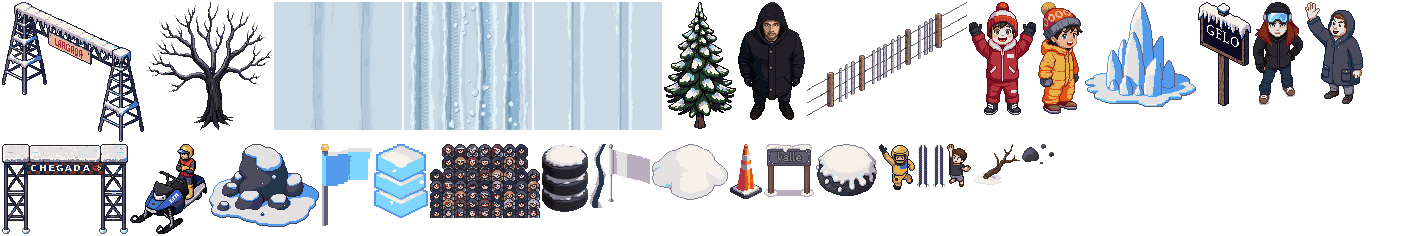
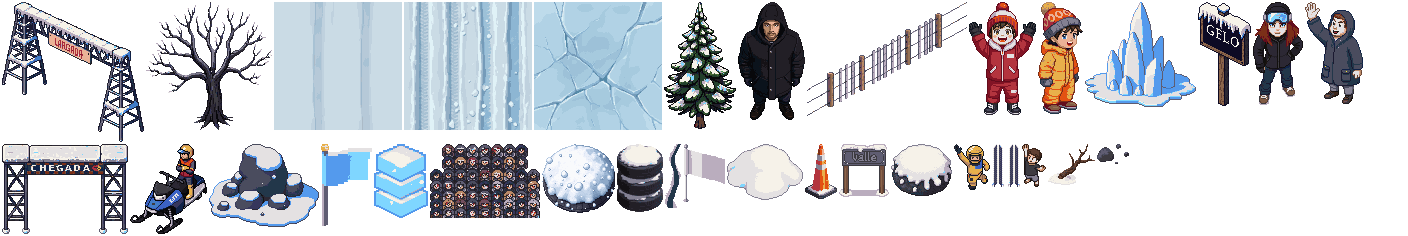
Lama na floresta, neve no gelo, portico atravessado e floresta com arvore
A poeira agora existe nos tres biomas: terra no deserto, lama na floresta,
cristal de neve no gelo. O codigo ja aguentava - faltava o sprite.

O portico voltou a ser girado com o tracado. Como painel em pe ele acabava
deitado ao longo da pista em vez de cruza-la: dois postes na beira e nenhum
arco por onde passar. Ele e a unica coisa do cenario que cruza a pista, e e
isso que precisa mostrar.

A floresta virou floresta: densidade de objetos passou a ser campo do bioma
(0,92 na floresta contra 0,55 no deserto) e o peso de pinheiro e arvore subiu
de 6 para 16 e 13. Uma floresta com a densidade de um deserto e um deserto
verde.

Os leitos de floresta e gelo foram reescolhidos: a metrica de costura tinha
aprovado justamente as duas que liam como casca de arvore. Costura e criterio
de nao ter linha reta no chao, nao de a textura ser a coisa certa - as duas
perguntas sao diferentes e agora as duas sao feitas.

E o chao de um bioma sem item de terreno apontava para um recorte que nao
existe mais na folha, o que faria o editor recusar salvar.

Changed region(s): [[0.375, 0.5932, 0.8125, 0.9195], [0.375, 0.0, 0.4688, 0.5636]]

diff --git a/src/scenery.ts b/src/scenery.ts
@@ -58,6 +58,11 @@ interface Scenery {
   crowd: string;
   /** Tamanho na tela = pixels do sprite × isto. */
   propScale: number;
+  /**
+   * Quão cheia é a beira da Pista, de 0 a 1. Não é enfeite: uma floresta com a densidade
+   * de um deserto não é uma floresta — é um deserto verde.
+   */
+  densidade: number;
   /** O tileset de canto do chão, quando o Bioma já tem um. */
   terreno: { sheet: Sheet; tile: number; pares: number } | null;
   /**
@@ -163,6 +168,7 @@ const SCENERY: Record<string, Scenery> = Object.fromEntries(
       // convivem, cada Bioma carrega a sua escala — e o campo morre quando o último
       // Bioma antigo for refeito.
       propScale: campo(b, 'escala', PROP_SCALE_ANTIGA),
+      densidade: campo(b, 'densidade', 0.55),
       rasteiros: campo<string[]>(b, 'rasteiros', []),
       terreno: montarTerreno(campo<Tileset | null>(b, 'terreno', null)),
       quadros: agruparQuadros(Object.keys(b.recortes)),
@@ -408,7 +414,7 @@ function buildProps(stage: Stage): Prop[] {
 
   const last = center.length - 1;
   for (let i = 12; i < last - 12; i += 9) {
-    if (rng.next() > 0.55) continue;
+    if (rng.next() > scenery.densidade) continue;
 
     const side = rng.next() < 0.5 ? -1 : 1;
     const n = normalAt(center, i);
@@ -599,11 +605,13 @@ function drawSprite(
 }
 
 /**
- * Os pórticos de largada e chegada, em pé sobre a Pista.
+ * Os pórticos de largada e chegada, atravessados sobre a Pista.
  *
- * Ficavam deitados atravessados no traçado, que é convenção de vista de cima. Com o
- * Ponto de Vista misto — chão de cima, objeto em 3/4 — o pórtico é objeto: fica em pé,
- * apoiado no meio da Pista, e o Carro passa por baixo dele.
+ * O pórtico é a única coisa do Cenário que **cruza** a Pista, e é isso que ele precisa
+ * mostrar: o Carro passa por baixo dele. Desenhado como painel em pé, ele acabava
+ * deitado ao longo do traçado em vez de cruzá-lo — dois postes na beira, e nenhum arco
+ * por onde passar. Aqui ele é girado com o traçado, como uma faixa esticada de um lado
+ * ao outro da Pista.
  */
 export function drawGates(ctx: CanvasRenderingContext2D, stage: Stage): void {
   const scenery = SCENERY[stage.biome.id];
@@ -623,7 +631,9 @@ function gate(
   trackWidth: number,
 ): void {
   const i = Math.min(Math.max(index, 1), center.length - 1);
+  const a = center[i - 1];
   const b = center[i];
+  const heading = Math.atan2(b.y - a.y, b.x - a.x);
   const s = scenery.sprites[name];
   // Largo o bastante para atravessar a Pista: o pórtico é o que diz onde ela começa.
   const w = trackWidth * 1.15;
@@ -631,8 +641,10 @@ function gate(
 
   ctx.save();
   ctx.translate(b.x, b.y);
+  // Girado um quarto de volta em relação ao traçado: assim a faixa cruza a Pista em vez
+  // de correr ao lado dela, seja qual for a direção em que a Etapa começa.
+  ctx.rotate(heading + Math.PI / 2);
   ctx.imageSmoothingEnabled = false;
-  // Em pé e apoiado no chão, como todo objeto: não gira com o traçado.
-  ctx.drawImage(scenery.sheet.image, s.x, s.y, s.w, s.h, -w / 2, -h, w, h);
+  ctx.drawImage(scenery.sheet.image, s.x, s.y, s.w, s.h, -w / 2, -h / 2, w, h);
   ctx.restore();
 }

diff --git a/tools/montar-folha.py b/tools/montar-folha.py
@@ -28,7 +28,7 @@ FOLGA = 2
 # As chaves que este script é dono e reescreve por inteiro. Todo o resto do Bioma passa.
 PAPEIS_DE_OBJETO = {
     'folha', 'escala', 'chao', 'leito', 'largada', 'chegada',
-    'beira', 'pesos', 'publico', 'rasteiros', 'plateia', 'recortes', 'leitos', 'efeitos', 'espelhar',
+    'beira', 'pesos', 'publico', 'rasteiros', 'plateia', 'recortes', 'leitos', 'efeitos', 'espelhar', 'densidade',
 }
 
 
@@ -152,10 +152,13 @@ def main() -> int:
         **{k: v for k, v in antigo.items() if k not in PAPEIS_DE_OBJETO},
         'folha': nome_folha,
         'escala': manifesto['escala'],
+        'densidade': manifesto.get('densidade', 0.55),
         # Os ladrilhos gerados já fecham consigo mesmos: espelhar só produziria losango.
         'espelhar': False,
         # O leito e o terreno viram um recorte só cada; a variação entre eles é do jogo.
-        'chao': um('terreno', antigo.get('chao', '')),
+        # Sem item de terreno, o chão aponta para o leito: o tileset é quem desenha o
+        # chão desses Biomas, e um nome que não existe na folha quebraria a conferência.
+        'chao': um('terreno', um('leito', antigo.get('chao', ''))),
         'leito': um('leito', antigo.get('leito', '')),
         # Todas as variantes do leito: é o jogo que escolhe qual vai em cada trecho.
         'leitos': [n for n, _ in papeis.get('leito', [])],
